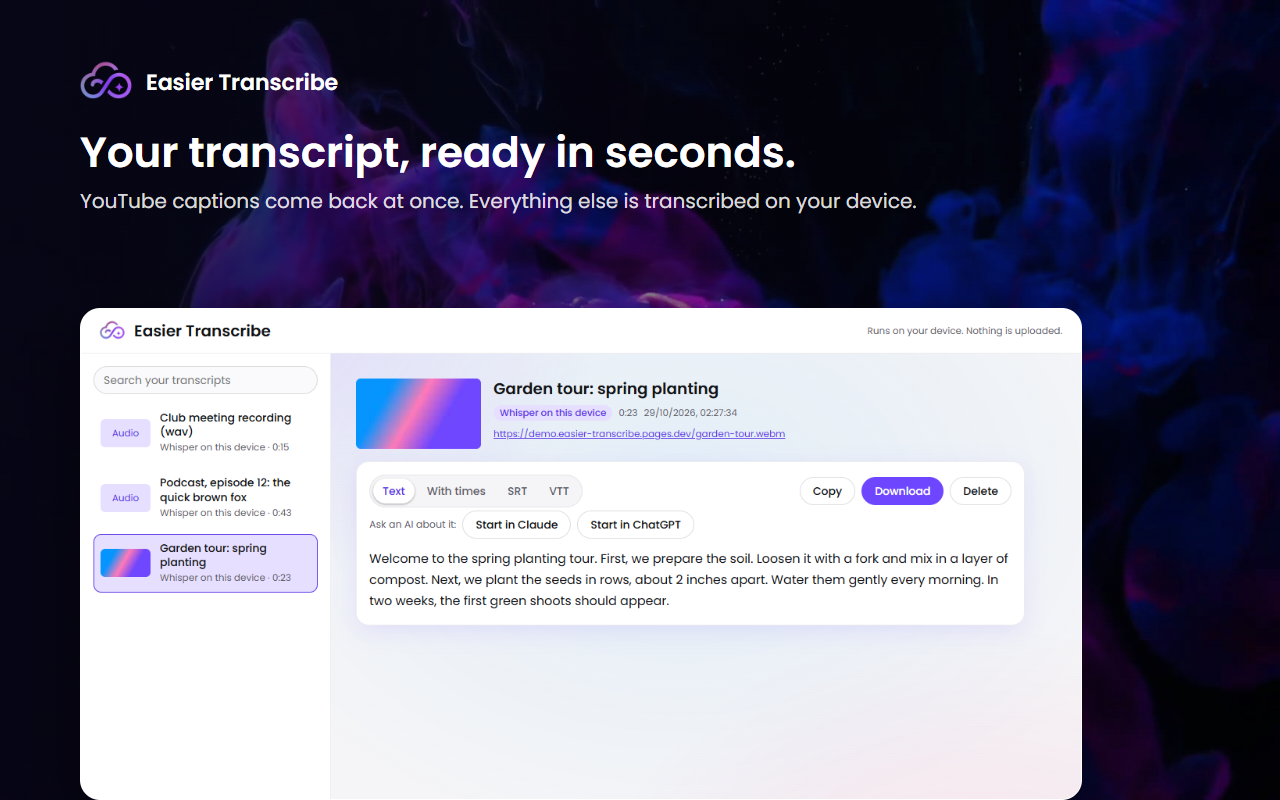
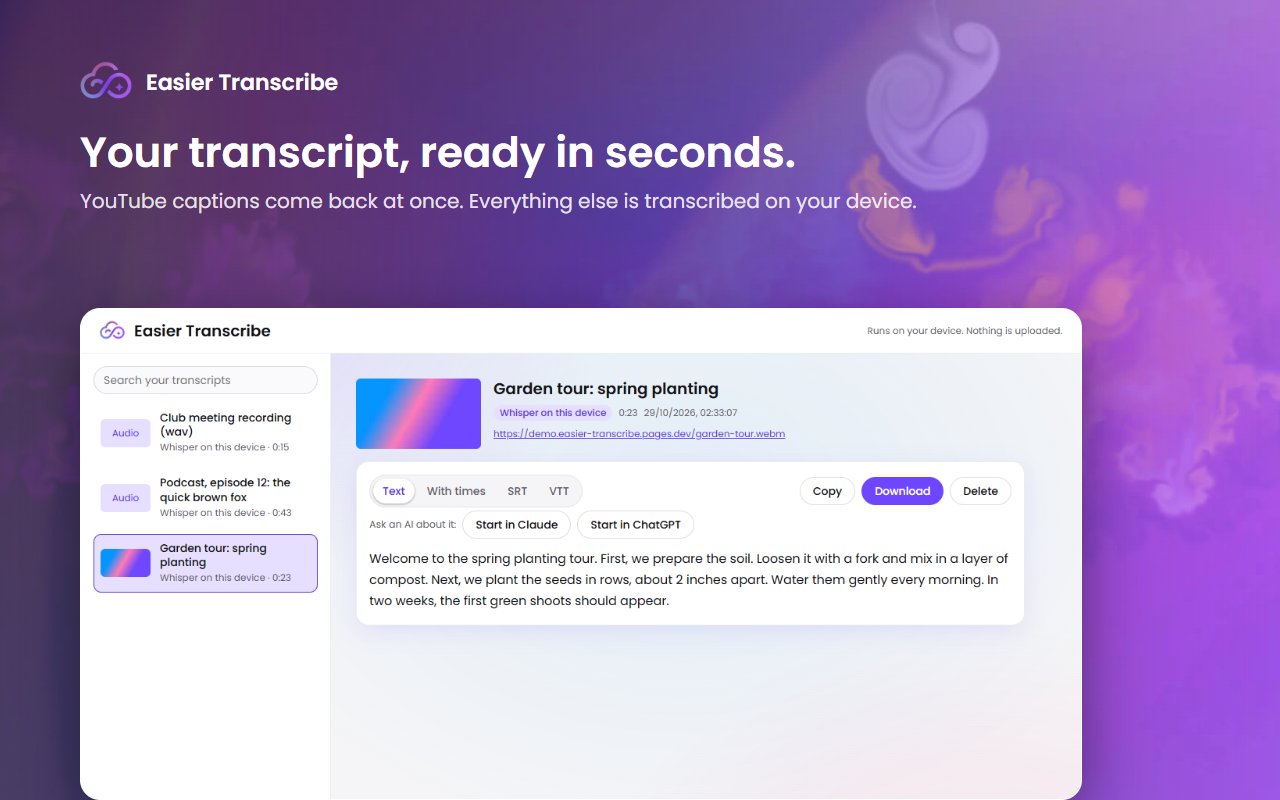
Store pictures: ink rendered from the Easier Agency site's ink.ts (vivid, still), harness included

diff --git a/extension/store/ink-harness/index.html b/extension/store/ink-harness/index.html
@@ -1,0 +1,2 @@
+<!doctype html><meta charset=utf-8><style>html,body{margin:0;background:#000}#t{position:relative;width:1920px;height:1080px;overflow:hidden}[data-ink]{position:absolute;inset:0}canvas{position:absolute;inset:0;width:100%;height:100%}</style>
+<div id=t><div data-ink="dark" data-ink-zone="any"></div></div><script src="ink.js"></script><script>Ink.initInk()</script>
